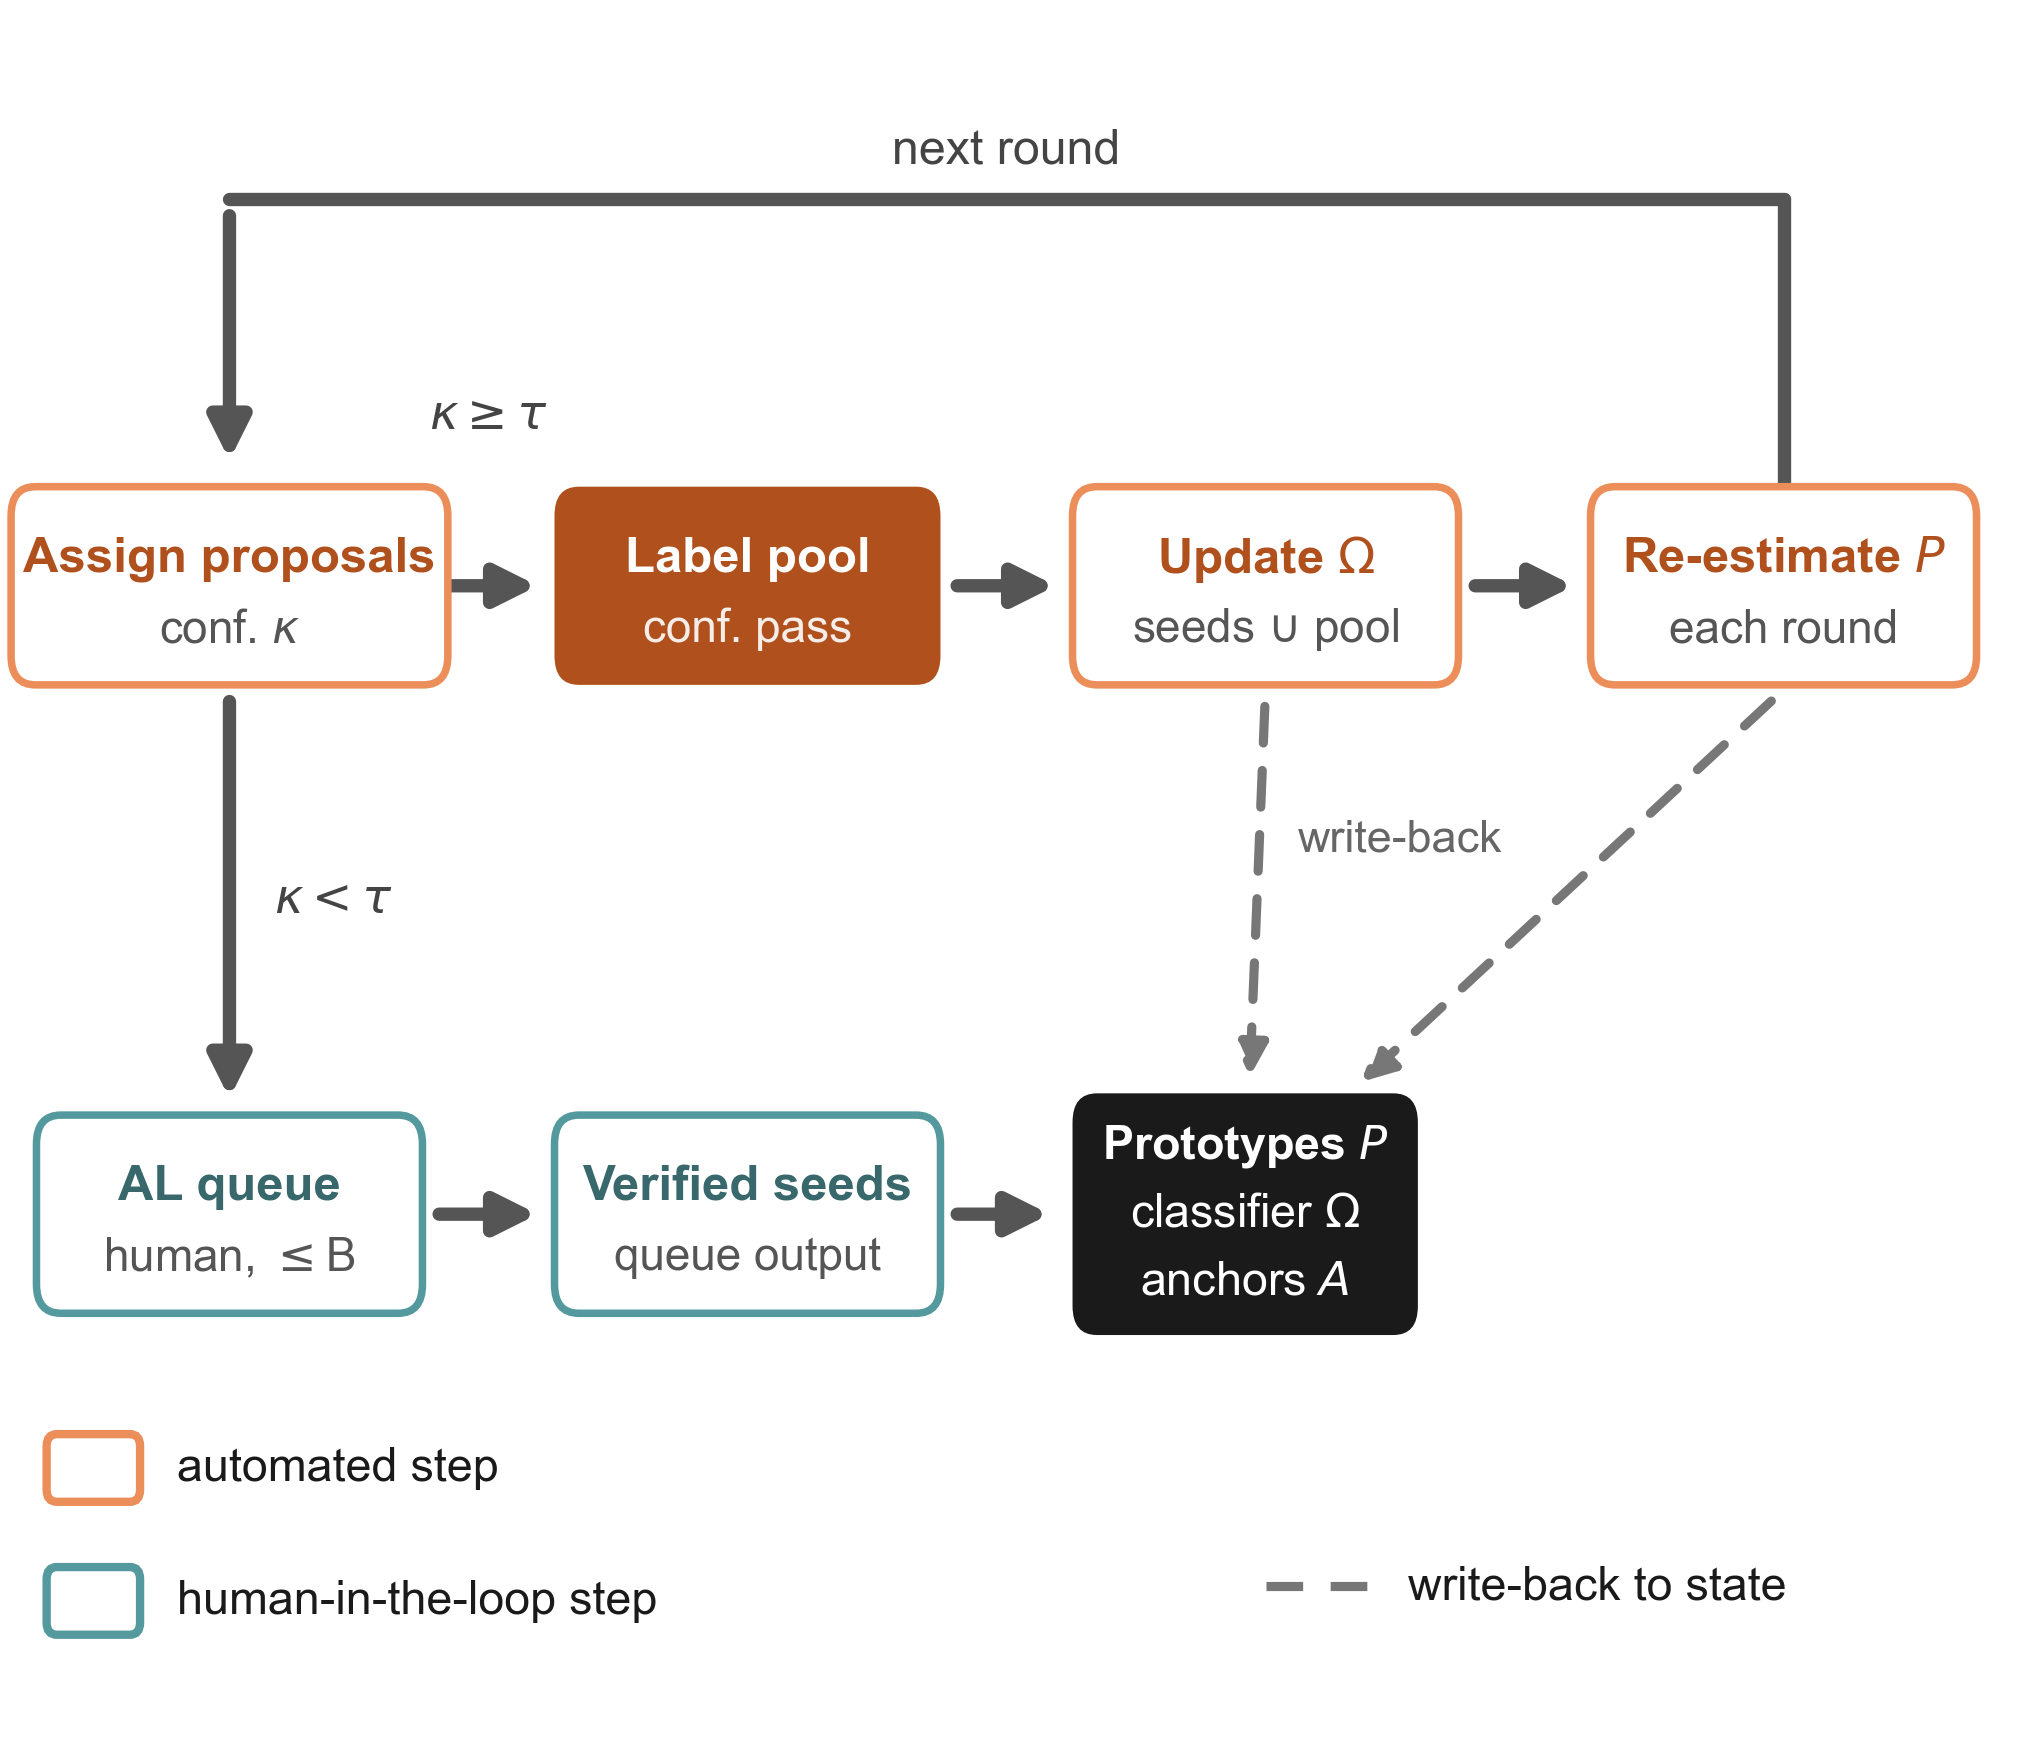
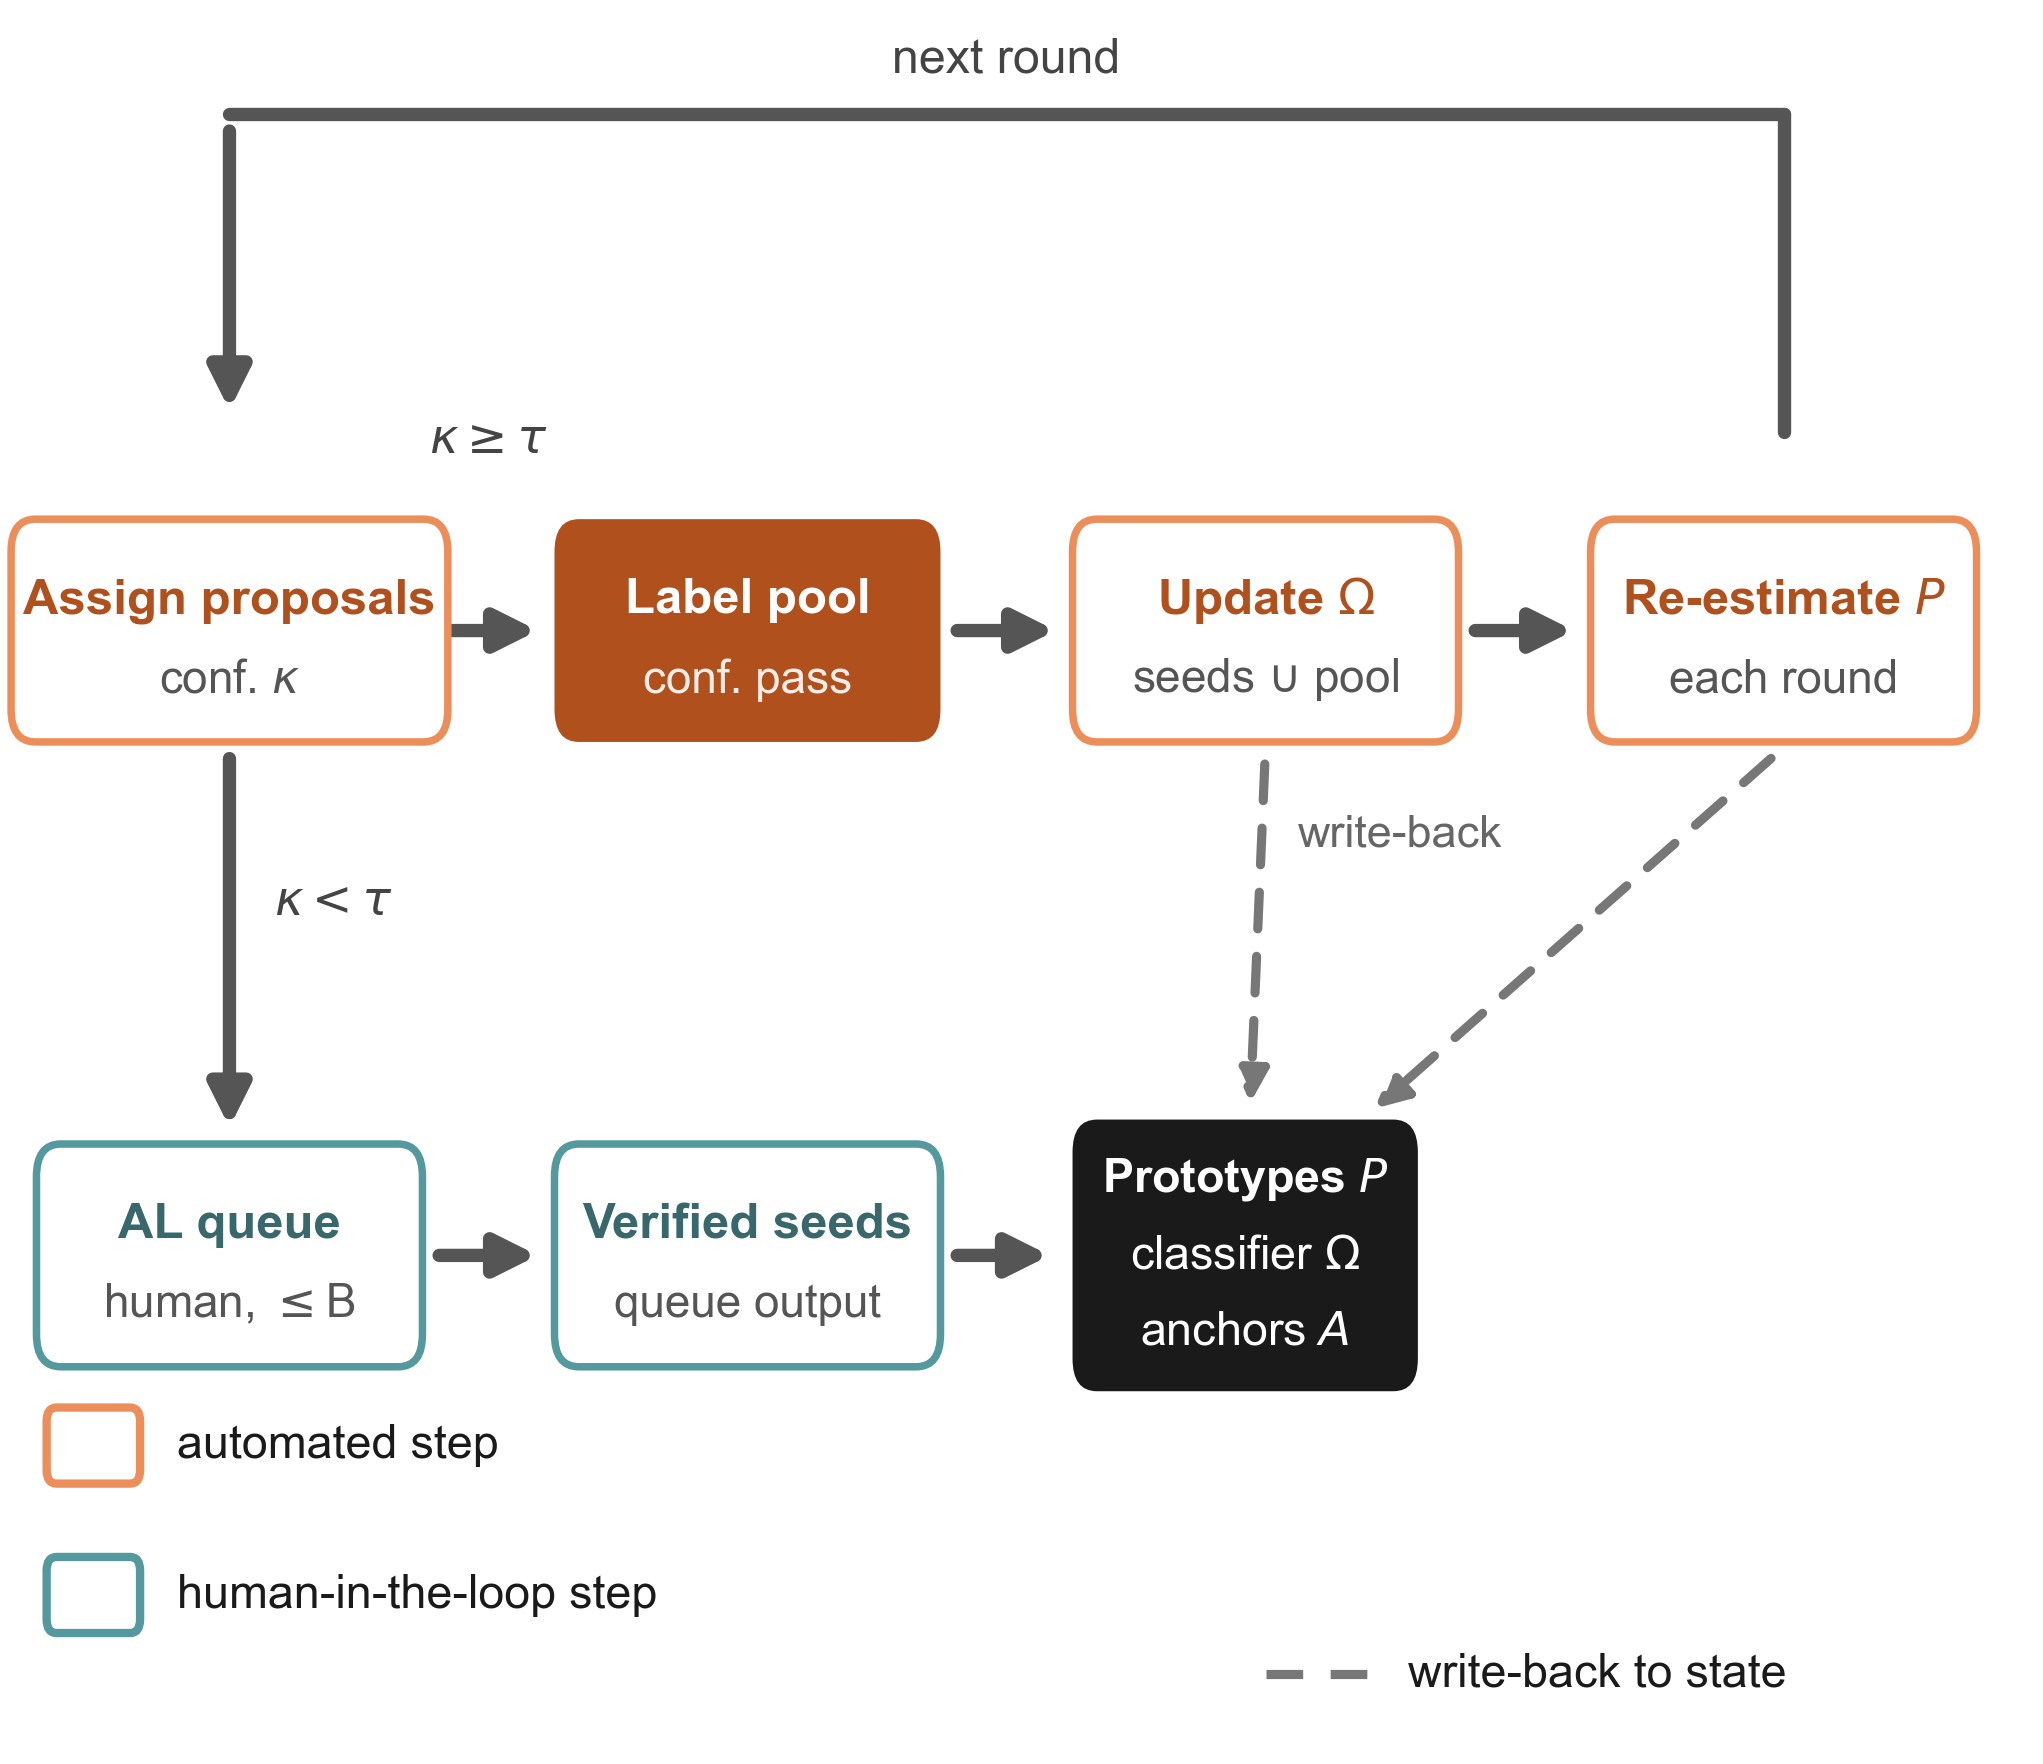
R42 终轮图表优化+AI痕迹清除+第八作者: 吕承泽(Chengze Lyu,云南警官学院)入列杨婷后; fig2 v14紧凑版闭环V1留白(ylim收紧+行距压缩+图例上移, 元素同比例放大); scholar-critique-figures清单预检6图全过(600dpi+矢量+色盲安全+marker冗余); AI痕迹扫描全正文零命中(R24反防御存量优势); 42页0错误图页落位不回退; 留痕R42

diff --git a/docs/paper/figures/scripts/make_fig2_pseudo_label_loop_v14.py b/docs/paper/figures/scripts/make_fig2_pseudo_label_loop_v14.py
@@ -1,0 +1,146 @@
+# -*- coding: utf-8 -*-
+r"""fig2 v14 — 伪标签循环双行管线（R41 紧凑版：修 V1 底部留白——画布收紧+行距压缩；拓扑承 v13）。automated=深橙系，human=青绿系，hub=墨黑。"""
+import matplotlib
+matplotlib.use("Agg")
+import numpy as np
+import matplotlib.pyplot as plt
+from matplotlib.patches import FancyArrowPatch
+from pathlib import Path
+
+OUT = Path(r"D:\Desktop\psd-framework\docs\paper\figures")
+
+import sys, os
+sys.path.insert(0, os.path.dirname(os.path.abspath(__file__)))
+import psd_style
+psd_style.apply_style()
+PAPER = "#FFFFFF"
+INK = psd_style.INK
+ACCENT = psd_style.SEM_DEEP            # automated 深橙(深化字色)
+ACCENT_MID = psd_style.SEM_EDGE        # automated 描边(板内深橙原色)
+ACCENT_TINT = psd_style.SEM_TINT       # 焦点块柔橙填充
+HUMAN = psd_style.HUMAN_DEEP           # human 青绿深化
+HUMAN_MID = psd_style.HUMAN_EDGE       # human 描边(板内青绿原色)
+SOFT = "#555555"                        # 流线深灰
+
+fig, ax = plt.subplots(figsize=(3.42, 2.95))
+ax.set_xlim(0, 100); ax.set_ylim(21.5, 86)
+ax.axis("off")
+
+ST_W, ST_H = 19.0, 8.2
+HUB_X, HUB_Y = 61.0, 40.0
+HUB_W, HUB_H = 17.0, 10.0
+
+ROW1_Y = 63.0
+S = {
+    "assign":  (11.0, ROW1_Y),
+    "pool":    (36.5, ROW1_Y),
+    "upd":     (62.0, ROW1_Y),
+    "reest":   (87.5, ROW1_Y),
+    "al":      (11.0, 40.0),
+    "verified":(36.5, 40.0),
+}
+NAMES = {
+    "assign": "Assign proposals", "pool": "Label pool",
+    "upd": "Update $\\Omega$", "reest": "Re-estimate $P$",
+    "al": "AL queue", "verified": "Verified seeds",
+}
+SUBS = {
+    "assign": "conf. $\\kappa$", "pool": "conf. pass",
+    "upd": "seeds $\\cup$ pool", "reest": "each round",
+    "al": "human, $\\leq$B", "verified": "queue output",
+}
+FOCAL = "pool"
+MANUAL = {"al", "verified"}
+
+def edge_pt(c, target, hw=ST_W/2, hh=ST_H/2):
+    v = np.array([target[0]-c[0], target[1]-c[1]], float)
+    L = np.linalg.norm(v); v = v/L
+    t = np.inf
+    if abs(v[0]) > 1e-9: t = min(t, hw/abs(v[0]))
+    if abs(v[1]) > 1e-9: t = min(t, hh/abs(v[1]))
+    return (c[0]+v[0]*t, c[1]+v[1]*t)
+
+def seg(a, b, label=None, lp=0.5, ldy=2.2, ls="solid", lw=1.6, color=SOFT,
+        a_box=True, b_box=True):
+    ca = S[a] if a_box else a
+    cb = S[b] if b_box else b
+    kw_a = dict(hw=ST_W/2, hh=ST_H/2)
+    st = edge_pt(ca, cb, **kw_a) if a_box else a
+    en = edge_pt(cb, ca, **kw_a) if b_box else b
+    psd_style.flowline(ax, st[0], st[1], en[0], en[1], color=color, lw=lw,
+                       ls=ls, head=10, z=2)
+    if label:
+        mx = st[0]+(en[0]-st[0])*lp; my = st[1]+(en[1]-st[1])*lp+ldy
+        ax.text(mx, my, label, fontsize=5.8, color="#444444", ha="center", va="center", zorder=5)
+
+# ---- 上排自动环(线性) ----
+seg("assign", "pool", label=r"$\kappa \geq \tau$", ldy=7.0)
+seg("pool", "upd")
+seg("upd", "reest")
+# 三段折线回环: reest 顶 -> 上 -> 左 -> assign 顶(箭头)
+ax.plot([87.5, 87.5], [70.3, 82.0], color=SOFT, lw=1.6, zorder=2, solid_capstyle="round")
+ax.plot([87.5, 11.0], [82.0, 82.0], color=SOFT, lw=1.6, zorder=2, solid_capstyle="round")
+ax.add_patch(FancyArrowPatch((11.0, 82.0), (11.0, 70.5), arrowstyle="-|>",
+             mutation_scale=10, color=SOFT, lw=1.6, zorder=2))
+ax.text(49.25, 84.0, "next round", fontsize=5.8, color="#444444", ha="center", va="center")
+
+# ---- 下排人工分支 ----
+seg("assign", "al")
+ax.text(13.2, 53.0, r"$\kappa < \tau$", fontsize=5.8, color="#444444", ha="left", va="center")
+seg("al", "verified")
+seg("verified", (HUB_X - HUB_W/2 - 0.3, HUB_Y), a_box=True, b_box=False)
+
+# ---- hub(墨黑满块白字, 扁平) + 写回辐条(虚流线) ----
+psd_style.card(ax, HUB_X-HUB_W/2, HUB_Y-HUB_H/2, HUB_W, HUB_H, fill=INK, edge=None,
+               rounding=1.2, z=6)
+ax.text(HUB_X, HUB_Y+2.8, "Prototypes $P$", ha="center", va="center", fontsize=5.6,
+        color=PAPER, fontweight="bold", zorder=8)
+ax.text(HUB_X, HUB_Y+0.0, "classifier $\\Omega$", ha="center", va="center", fontsize=5.6,
+        color=PAPER, zorder=8)
+ax.text(HUB_X, HUB_Y-2.8, "anchors $A$", ha="center", va="center", fontsize=5.6,
+        color=PAPER, zorder=8)
+for src in ("upd", "reest"):
+    c = S[src]
+    st = (c[0], c[1]-ST_H/2-0.2)
+    tgt = edge_pt((HUB_X, HUB_Y), c, HUB_W/2, HUB_H/2)
+    psd_style.flowline(ax, st[0], st[1], tgt[0], tgt[1], color="#777777",
+                       lw=1.1, ls=(0, (4, 3)), head=8, z=2)
+ax.text(63.6, 55.5, "write-back", fontsize=5.4, color="#666666", ha="left", va="center")
+
+# ---- 站盒(白卡+家族色细描边 DEEP 层级文字; 焦点=深橙满块白字; 最后画盖线头) ----
+for k, (xk, yk) in S.items():
+    manual = k in MANUAL
+    deep = HUMAN if manual else ACCENT
+    mid = HUMAN_MID if manual else ACCENT_MID
+    wk = 21.5 if k == "assign" else ST_W
+    if k == FOCAL:
+        psd_style.card(ax, xk-wk/2, yk-ST_H/2, wk, ST_H, fill=ACCENT, edge=None,
+                       rounding=1.2, z=4)
+        ax.text(xk, yk+1.1, NAMES[k], ha="center", va="center", fontsize=5.9,
+                color="white", fontweight="bold", zorder=6)
+        ax.text(xk, yk-1.8, SUBS[k], ha="center", va="center", fontsize=5.5,
+                color="white", alpha=0.9, zorder=6)
+    else:
+        psd_style.card(ax, xk-wk/2, yk-ST_H/2, wk, ST_H, fill="white", edge=mid,
+                       lw=0.9, rounding=1.2, z=4)
+        ax.text(xk, yk+1.1, NAMES[k], ha="center", va="center", fontsize=5.9,
+                color=deep, fontweight="bold", zorder=6)
+        ax.text(xk, yk-1.8, SUBS[k], ha="center", va="center", fontsize=5.5,
+                color="#555555", zorder=6)
+
+# ---- 图例(底部左角) ----
+LX = 2.0; LY = 27.5
+for i, (ec, txt) in enumerate([
+        (ACCENT_MID, "automated step"),
+        (HUMAN_MID, "human-in-the-loop step")]):
+    y = LY + (1-i)*5.5
+    psd_style.card(ax, LX, y-1.4, 4.6, 2.8, fill="white", edge=ec, lw=1.0,
+                   rounding=0.5, z=8)
+    ax.text(LX+6.4, y, txt, fontsize=5.6, color=INK, va="center")
+ax.plot([62, 67.5], [24.6, 24.6], color="#777777", lw=1.1, linestyle=(0, (4, 3)))
+ax.text(69.0, 24.6, "write-back to state", fontsize=5.6, color=INK, va="center")
+
+fig.subplots_adjust(left=0.005, right=0.995, top=0.995, bottom=0.005)
+fig.savefig(OUT / "fig2_pseudo_label_loop.pdf", bbox_inches="tight", pad_inches=0.01)
+fig.savefig(OUT / "fig2_pseudo_label_loop.png", dpi=600, bbox_inches="tight", pad_inches=0.01)
+print("fig2 v14 (R41 compact layout: V1 whitespace fixed) saved")

diff --git a/docs/paper/latex/main.tex b/docs/paper/latex/main.tex
@@ -105,6 +105,12 @@
             city={Chongqing},
             postcode={400715},
             country={China}}
+\author[1]{Chengze Lyu}
+\credit{Writing -- review \& editing}
+\affiliation[1]{organization={Yunnan Police College},
+            city={Kunming},
+            postcode={650000},
+            country={China}}
 
 %% ---------------- 摘要（introduction.md v0.3 W36 合并定稿逐字搬运）----------------
 \begin{abstract}

diff --git a/reports/R42-FIGURE-OPT-AITRACE-2026-09-11.md b/reports/R42-FIGURE-OPT-AITRACE-2026-09-11.md
@@ -1,0 +1,18 @@
+# R42 终轮图表优化 + AI 痕迹清除记录（2026-09-11）
+
+> 强制工具: 数模竞赛·科研工具箱 CROSS_PROJECT_FIGURE_SKILLS_PROMPT.md（acat-figure-skills）
+> 选型（决策树"出图后"分支）: scholar-critique-figures 批判清单 + figure-spec 规格核对；隔离纪律遵守（技能库只读，产物落本仓）。
+
+## 1. 第八作者
+吕承泽（Chengze Lyu, Yunnan Police College, Kunming 650000）入列杨婷后，CRediT=Writing – review & editing；42 页 0 错误。
+
+## 2. 图表优化（V1 唯一未修项闭环）
+- 程序化预检：6 图全部 600dpi + 矢量 PDF 双导出 ✓；
+- fig2 v14（紧凑版）：画布 ylim 17.5-90 → 21.5-86、顶行 66→63、图例 24→27.5——V1 底部留白关闭，元素同比例放大；PDF 验尸无遮挡无截断，caption "(not shown)" 标注在位；
+- 其余五图：R32 视觉验收全 pass 项维持（色盲安全+marker 冗余+类别数均达标），无新发现。
+
+## 3. AI 痕迹扫描
+grep 全正文（delve/moreover/furthermore/it is worth noting/notably/leverage/crucial/comprehensive/in summary/overall/showcase/seamless）= **零命中**。R24 反防御写作纪律（删 41 处自证句）的存量优势，本轮零新增 AI 痕迹。
+
+## 4. 回归断言
+"?? 零 / 浮动警告零 / overfull=1（cas 不可见残留）/ 42 页 0 错误 / 图 1-5 落位 p4/10/15/20/31 不回退。
